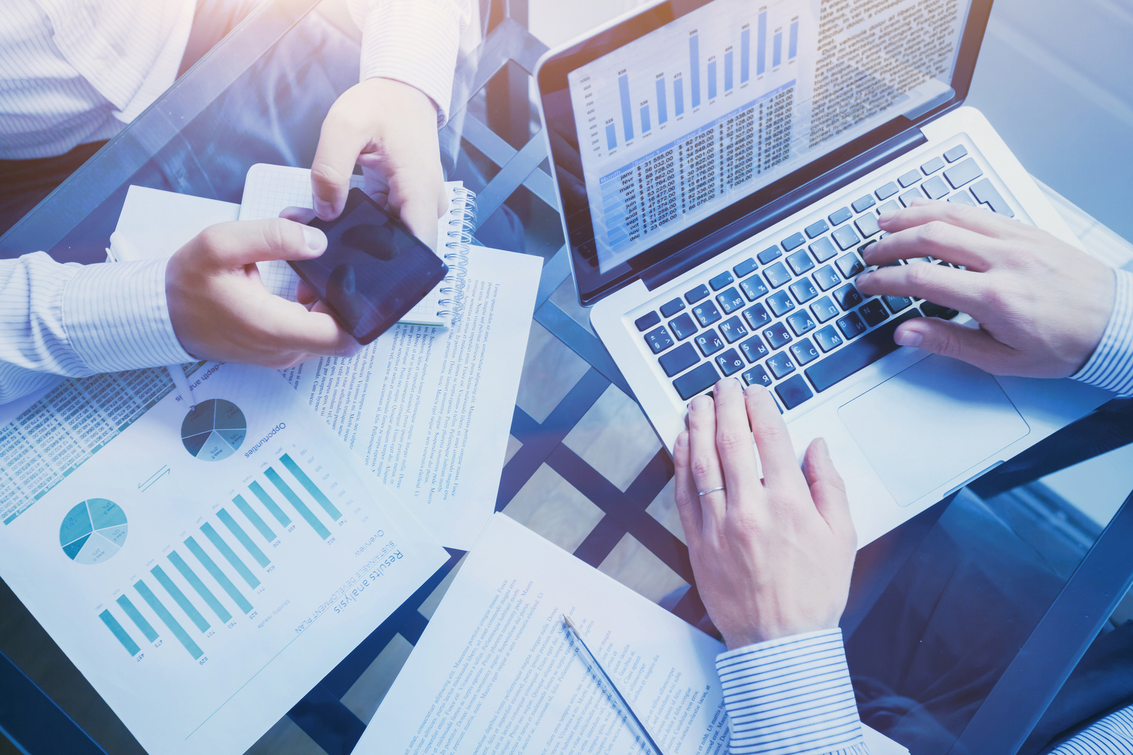
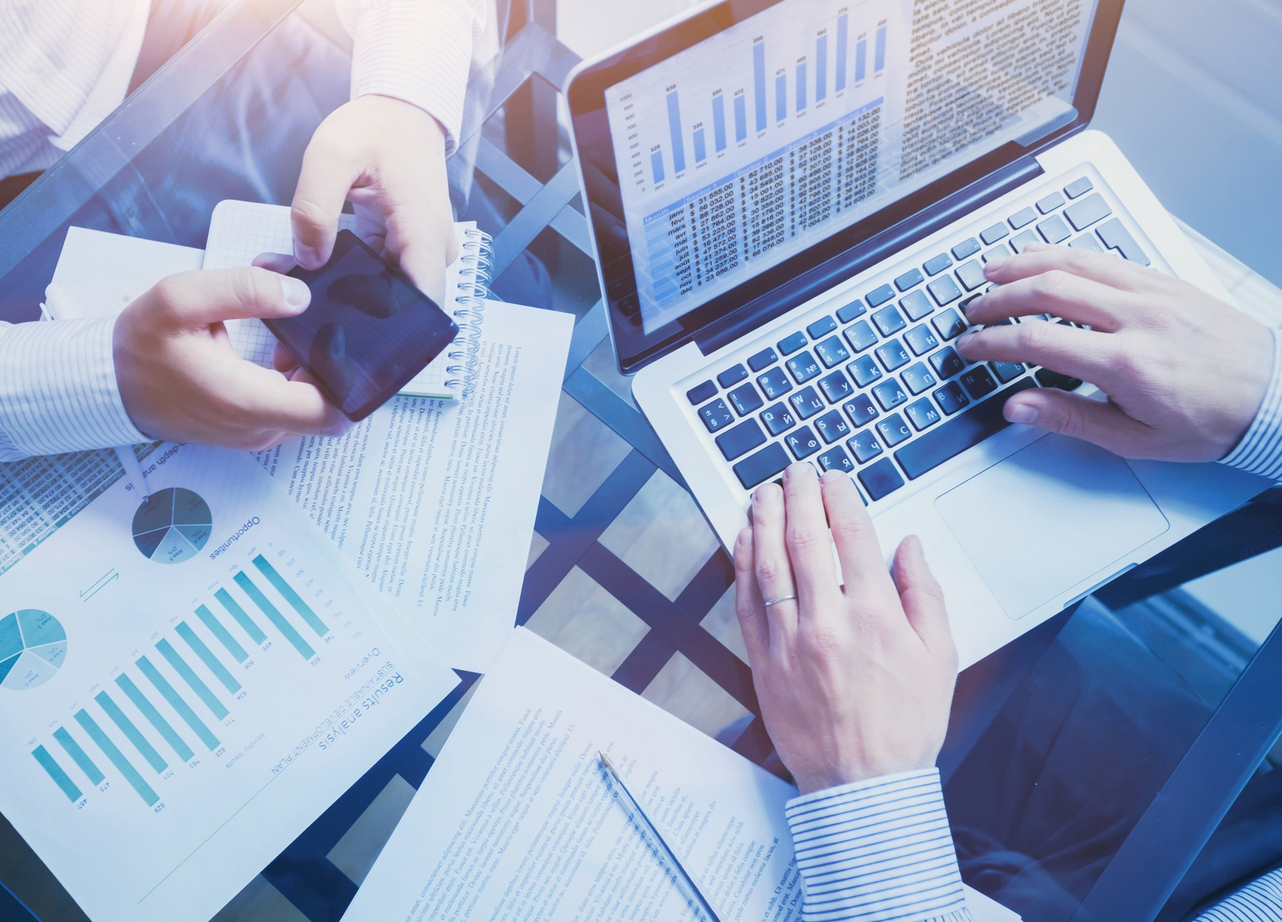
feat: overlay no carousel e botão saiba mais

diff --git a/src/components/carousel.tsx b/src/components/carousel.tsx
@@ -2,16 +2,19 @@ import React from 'react';
 import Carousel from 'react-bootstrap/Carousel'
 import Image from 'react-bootstrap/Image'
 import Container from 'react-bootstrap/Container'
+import { BsChevronDoubleDown } from "react-icons/bs";
+
 
 const MyCarousel: React.FC = () => {
   return (
-    <Container fluid className="p-0 bg-primary ">
+    <Container fluid className="p-0 bg-primary">
+        <div id="overlay"></div>
         <Carousel>
-        <Carousel.Item className="vh-100">
-            <Image src="img/spreadsheets-blue.jpg" fluid alt="Consultoria" className="vw-100"/>   
+        <Carousel.Item className="vh-100-md">
+            <Image src="img/spreadsheets-blue.jpg" fluid alt="Consultoria" className="vw-100 "/>   
             <Carousel.Caption>
-                <div className="d-flex justify-content-center">
-                    <div className="caption">
+                <div className="d-flex justify-content-center ">
+                    <div className="caption ">
                     <h1>Consultoria</h1>
                         <p>
                             Entregamos ferramentas que resolvem o seu problema e aumentam a sua produtividade
@@ -20,7 +23,7 @@ const MyCarousel: React.FC = () => {
                 </div>
             </Carousel.Caption>
         </Carousel.Item>
-        <Carousel.Item  className="vh-100">
+        <Carousel.Item  className="vh-100-md">
         <Image src="img/excel-notebook-camera.png" fluid alt="Consultoria" className="vw-100"/>
             <Carousel.Caption>
                 <div className="d-flex justify-content-center">
@@ -36,8 +39,10 @@ const MyCarousel: React.FC = () => {
         </Carousel>
         <div className="saiba-mais">
     	    Saiba mais
+            <BsChevronDoubleDown className="saiba-mais-icon"/>
         </div>
     </Container>
+
   );
 };
 

diff --git a/src/styles/custom.scss b/src/styles/custom.scss
@@ -2,16 +2,16 @@ $theme-colors: (
   "primary": #227447
 );
 
-
-
 @import "~bootstrap/scss/bootstrap";
 
 .caption {
   border-radius: 50px;
-  width: 100vw;
+  width: 80vw;
   background-color: rgba(map-get($theme-colors, "dark" ), 0.7);
   font-size: 1.5rem;
   padding: 15px;
+  position: absolute;
+  bottom: 90px;
 }
 
 hr {
@@ -30,6 +30,24 @@ hr.right{
   margin-right: 100%;
 }
 
+#overlay {
+  position: absolute; /* Sit on top of the page content */
+  width: 100%; /* Full width (cover the whole page) */
+  height: 100%; /* Full height (cover the whole page) */
+  top: 0;
+  left: 0;
+  right: 0;
+  bottom: 0;
+  background-image: linear-gradient(transparent, rgba(map-get($theme-colors, "dark" ), 0.4));
+  z-index: 10; /* Specify a stack order in case you're using a different order for other elements */
+  pointer-events:none;
+}
+
+.saiba-mais{
+  display: none;
+}
+
+
 @media (min-width: 992px) {
   .saiba-mais {
     display: flex;
@@ -45,16 +63,44 @@ hr.right{
     color: map-get($theme-colors, "light");
     height: 20px;
     z-index: 10;
+
 }
 
-.saiba-mais:after {
+.saiba-mais-icon {
   content: "";
   position: absolute;
   bottom: 0;
-  background-image: url(https://github.com/ZehCoque/excel-classes/blob/master/public/icons/double_arrow_white_48dp.svg);
-  height: 20px;
-  width: 20px;
+  height: 40px;
+  width: 40px;
   top: 20px;
   cursor: pointer;
 }
+
+.vw-100-md{
+  width: 100vh !important;
 }
+
+.vh-100-md{
+  height: 100vh !important;
+
+}
+
+}
+
+@media (max-width: 575px) {
+
+  .caption p{
+    display: none;
+  }
+
+  .caption h1{
+    font-size: large !important;
+  }
+
+  .caption{
+  bottom: 1rem;
+
+  }
+}
+
+
